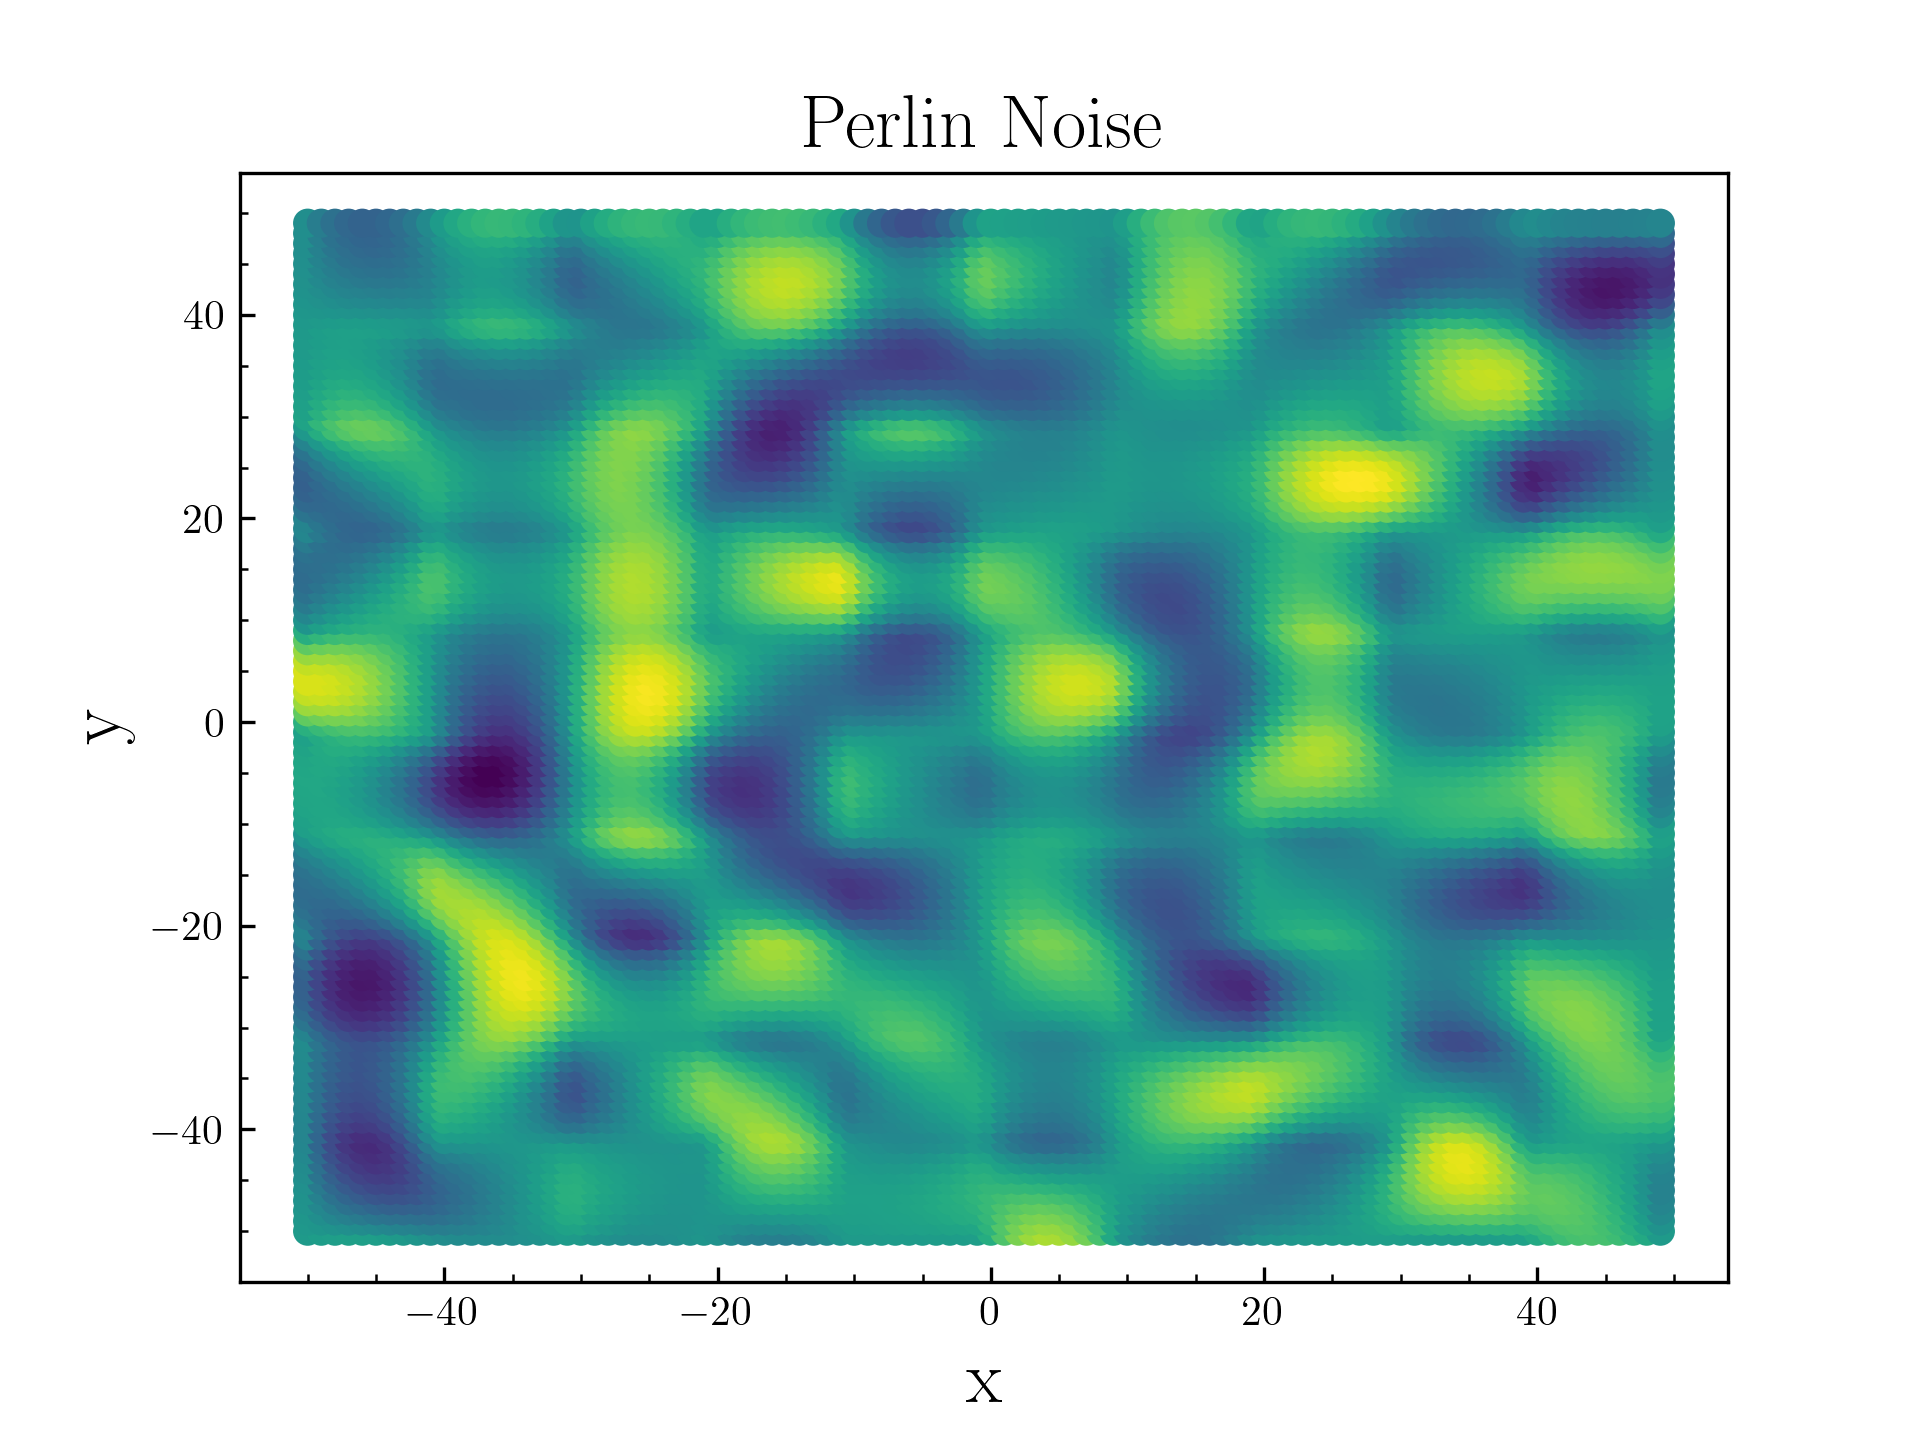
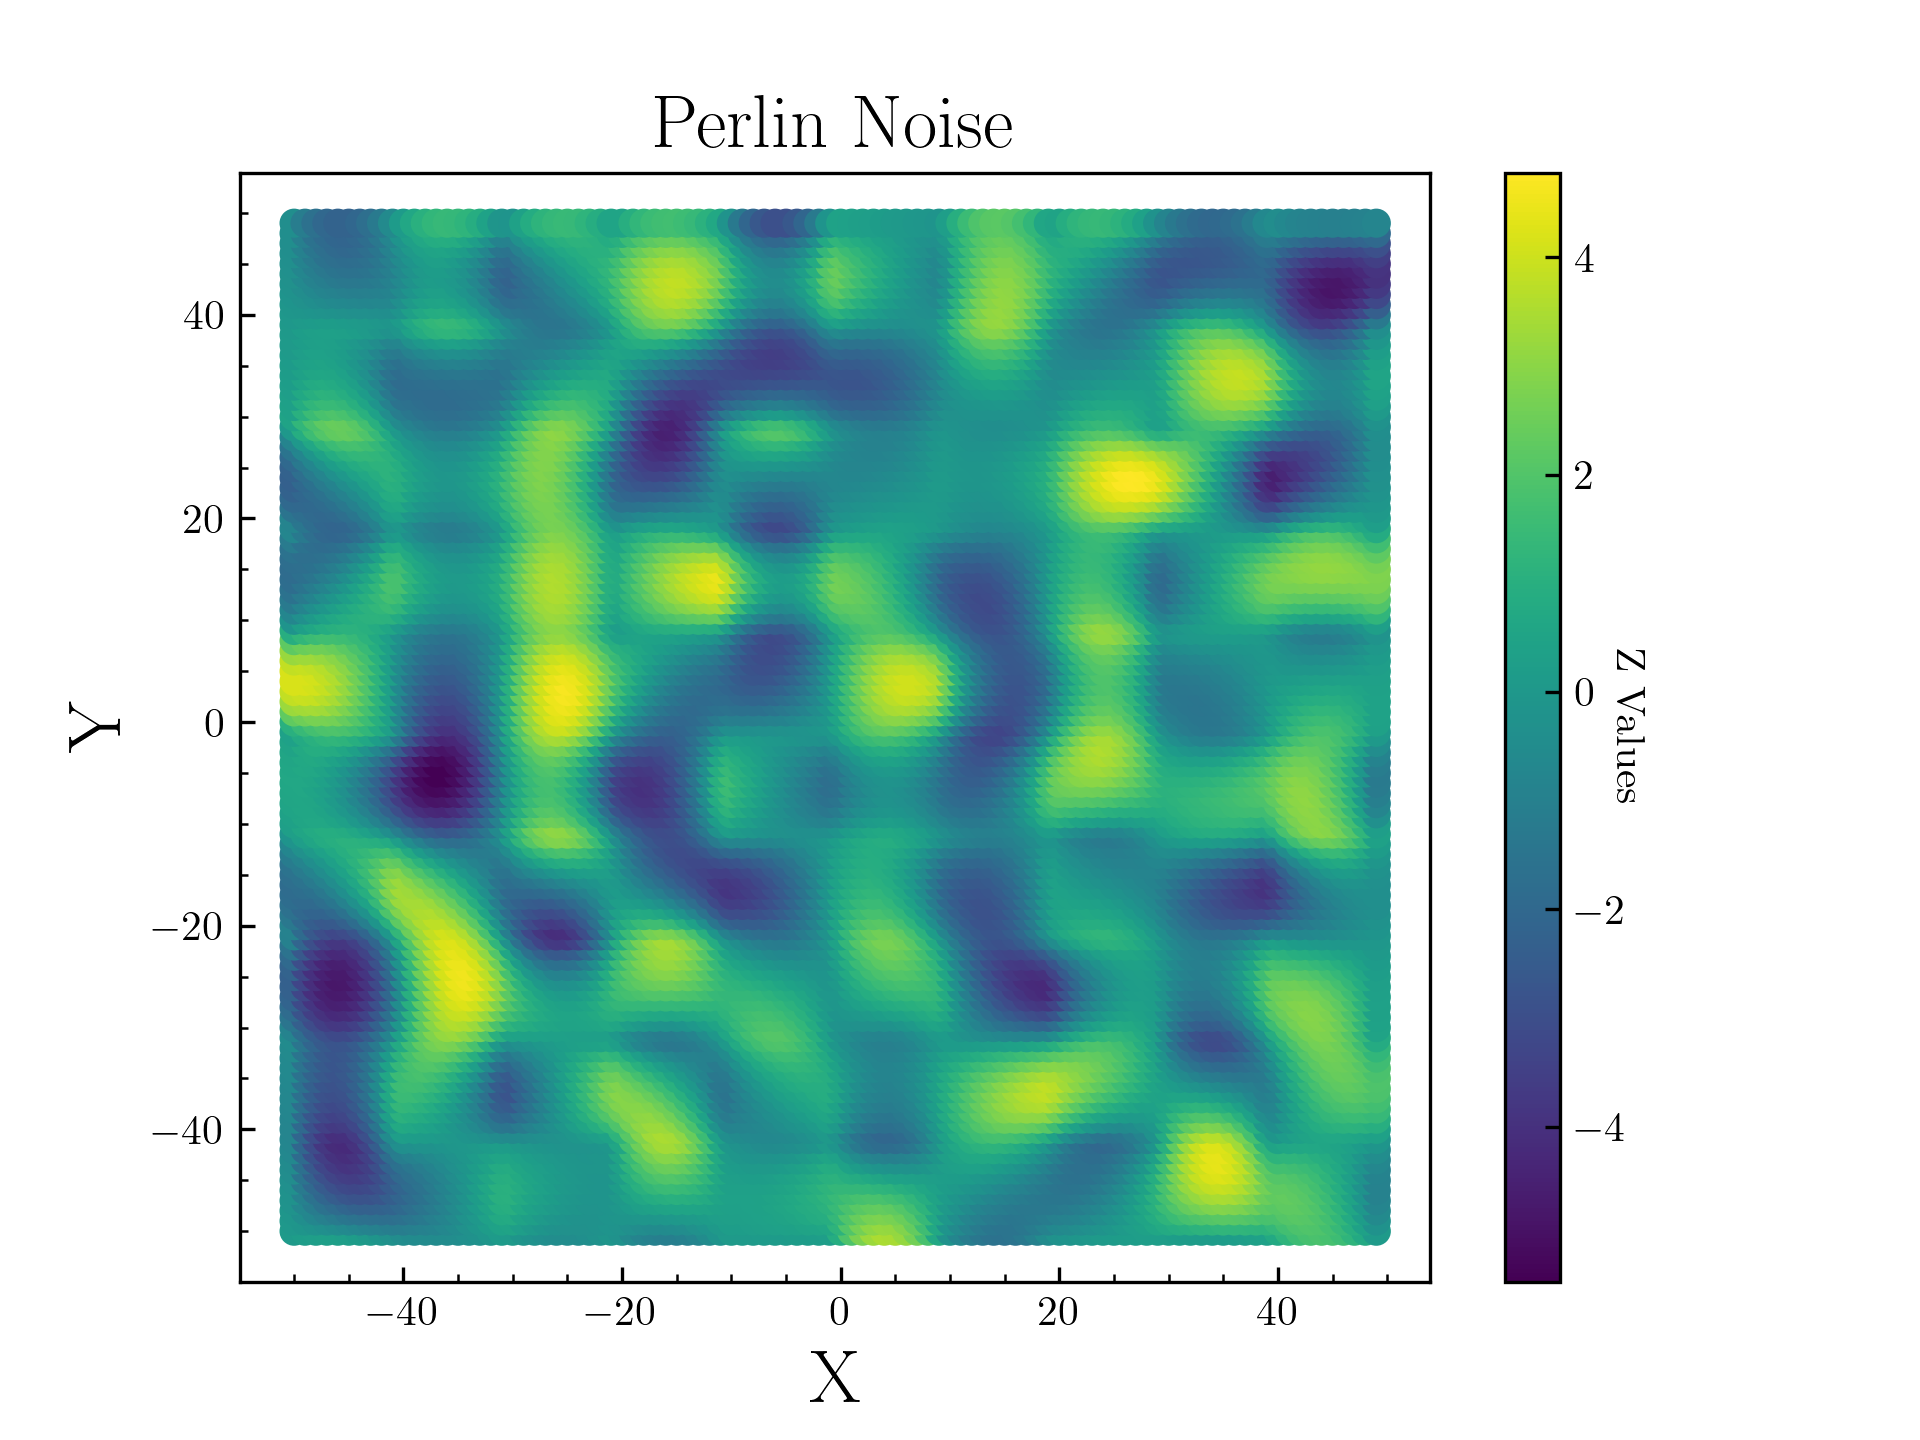
colorbar

diff --git a/2D_Map.py b/2D_Map.py
@@ -20,7 +20,6 @@ for line in file:
 
 plt.scatter(x, y, c=z, cmap='viridis')
 
-#Titulos dos eixos
 plt.title("Perlin Noise", fontsize=18)
 plt.xlabel("x", fontsize=18)
 plt.ylabel("y", fontsize=18)
@@ -28,5 +27,8 @@ plt.ylabel("y", fontsize=18)
 ax = plt.gca()
 ax.xaxis.set_minor_locator(tck.AutoMinorLocator())
 ax.yaxis.set_minor_locator(tck.AutoMinorLocator())
+
+cbar = plt.colorbar()
+cbar.set_label('Z Values', rotation=270)
 
 plt.savefig("2D_Map.png", dpi = 300)
